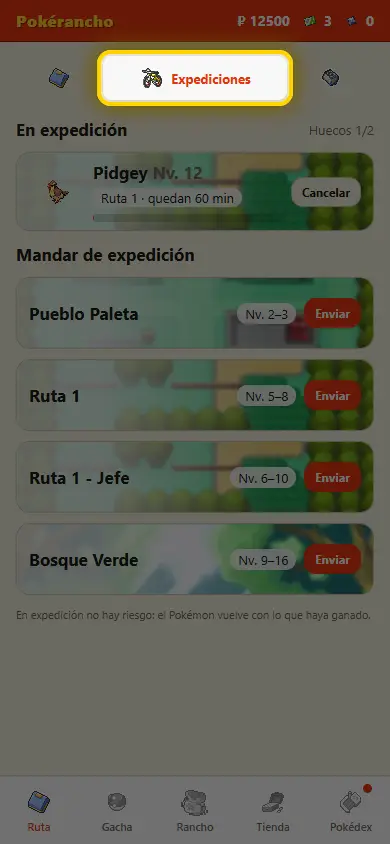
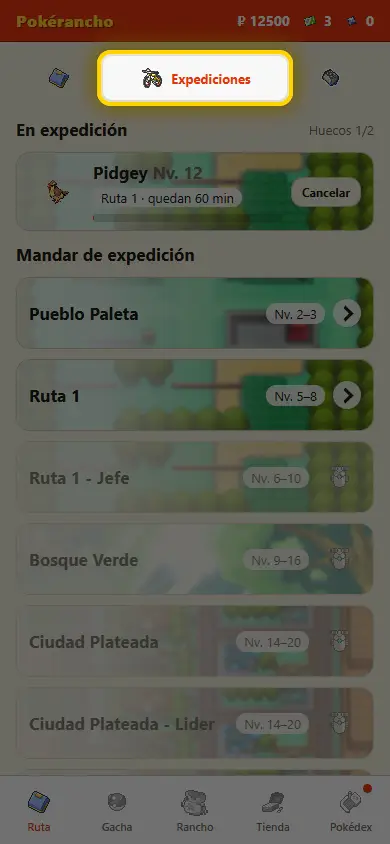
Actualización y nueva ruta

diff --git a/src/data/maps/kantoMaps.ts b/src/data/maps/kantoMaps.ts
@@ -138,12 +138,44 @@ export const KANTO: GameMap = {
       levels: [23, 25],
       encounters: enc([POKEMON.Geodude, 20], [POKEMON.Sandshrew, 15], [POKEMON.Spearow, 15], [POKEMON.Pidgey, 15], [POKEMON.Diglett, 10], [POKEMON.Mankey, 10], [POKEMON.Rattata, 10], [POKEMON.Jigglypuff, 5]),
       reward: { tickets: 5, money: 1000, exp: 1000 },
-      //unlocks: RouteId.MonteMoon,
+      unlocks: RouteId.Ruta3,
       nodes: chain(
         { id: 's', name: 'Afueras de la ciudad', kind: NodeKind.Start, steps: 0 },
         { id: 'a', name: 'Rocket team', kind: NodeKind.Raid, steps: 20, boss: raidBoss(POKEMON.Meowth, 25, RaidTier.Low, { soloMinutes: 10 }) },
         { id: 'b', name: 'Rocket team', kind: NodeKind.Raid, steps: 20, boss: raidBoss(POKEMON.Koffing, 25, RaidTier.Low, { soloMinutes: 10 }) },
         { id: 'c', name: 'Rocket team', kind: NodeKind.Raid, steps: 20, boss: raidBoss(POKEMON.Ekans, 25, RaidTier.Mid, { soloMinutes: 30 }) },
+      ),
+    },
+    {
+      id: RouteId.Ruta3,
+      name: 'Ruta 3',
+      description: 'Camino de rocas y hierba entre Ciudad Plateada y el Monte Moon, lleno de entrenadores.',
+      biome: Biome.Meadow,
+      levels: [22, 28],
+      encounters: enc([POKEMON.Spearow, 30], [POKEMON.Jigglypuff, 15], [POKEMON.Mankey, 15], [POKEMON.Sandshrew, 15], [POKEMON.Ekans, 15], [POKEMON.NidoranF, 5], [POKEMON.NidoranM, 5]),
+      reward: { tickets: 5, money: 1500, exp: 1200 },
+      nodes: chain(
+        { id: 's', name: 'Salida de Ciudad Plateada', kind: NodeKind.Start, steps: 0 },
+        { id: 'a', name: 'Sendero rocoso', kind: NodeKind.Wild, steps: 90, encounters: enc([POKEMON.Spearow, 40], [POKEMON.Sandshrew, 30], [POKEMON.Mankey, 30]) },
+        { id: 'b', name: 'Repecho', kind: NodeKind.Wild, steps: 100 },
+        { id: 'j1', name: 'Pajarero del repecho', kind: NodeKind.Boss, steps: 40, boss: boss(POKEMON.Fearow, 22, [{ type: 'flying', level: 1 }]) },
+        { id: 'p1', name: 'Merendero', kind: NodeKind.Heal, steps: 15, potion: Potion.SuperPotion },
+        { id: 'c', name: 'Pradera de Jigglypuff', kind: NodeKind.Wild, steps: 90, levelBonus: 1, encounters: enc([POKEMON.Jigglypuff, 50], [POKEMON.NidoranF, 15], [POKEMON.NidoranM, 15], [POKEMON.Spearow, 20]) },
+        { id: 'd', name: 'Campo de Nidoran', kind: NodeKind.Wild, steps: 100, levelBonus: 1, encounters: enc([POKEMON.NidoranF, 35], [POKEMON.NidoranM, 35], [POKEMON.Nidorina, 15], [POKEMON.Nidorino, 15]) },
+        { id: 'e', name: 'Cantera', kind: NodeKind.Wild, steps: 90, levelBonus: 1, encounters: enc([POKEMON.Sandshrew, 40], [POKEMON.Geodude, 40], [POKEMON.Mankey, 20]) },
+        { id: 'j2', name: 'Montañero de la cantera', kind: NodeKind.Boss, steps: 40, boss: boss(POKEMON.Sandslash, 23, [{ type: 'ground', level: 1 }]) },
+        { id: 'p2', name: 'Fuente del camino', kind: NodeKind.Heal, steps: 15, potion: Potion.SuperPotion },
+        { id: 'f', name: 'Barranco', kind: NodeKind.Wild, steps: 100, levelBonus: 2, encounters: enc([POKEMON.Ekans, 35], [POKEMON.Sandshrew, 25], [POKEMON.Mankey, 25], [POKEMON.Fearow, 15]) },
+        { id: 'g', name: 'Hierba alta', kind: NodeKind.Wild, steps: 90, levelBonus: 2, encounters: enc([POKEMON.Pikachu, 30], [POKEMON.Jigglypuff, 30], [POKEMON.Spearow, 20], [POKEMON.Ekans, 20]) },
+        { id: 'j3', name: 'Chica de la hierba alta', kind: NodeKind.Boss, steps: 40, boss: boss(POKEMON.Raichu, 24, [{ type: 'electric', level: 1 }]) },
+        { id: 'p3', name: 'Cabaña del cruce', kind: NodeKind.Heal, steps: 15, landmark: StopLandmark.House, potion: Potion.SuperPotion },
+        { id: 'h', name: 'Ladera', kind: NodeKind.Wild, steps: 100, levelBonus: 3, encounters: enc([POKEMON.Primeape, 20], [POKEMON.Fearow, 20], [POKEMON.Sandslash, 20], [POKEMON.Mankey, 20], [POKEMON.Ekans, 20]) },
+        { id: 'i', name: 'Paso de montaña', kind: NodeKind.Wild, steps: 100, levelBonus: 3, encounters: enc([POKEMON.Geodude, 30], [POKEMON.Zubat, 30], [POKEMON.Clefairy, 20], [POKEMON.Primeape, 20]) },
+        { id: 'p4', name: 'Centro Pokémon', kind: NodeKind.Heal, steps: 15, potion: Potion.SuperPotion },
+        { id: 'j4', name: 'Médium del Monte Moon', kind: NodeKind.Boss, steps: 40, boss: boss(POKEMON.Haunter, 25, [{ type: 'ghost', level: 1 }]) },
+        { id: 'p5', name: 'Refugio del montañero', kind: NodeKind.Heal, steps: 15, potion: Potion.SuperPotion },
+        { id: 'j5', name: 'Ladrón de fósiles', kind: NodeKind.Boss, steps: 40, boss: boss(POKEMON.Aerodactyl, 27, [{ type: 'rock', level: 2 }]) },
+        { id: 'z', name: 'Pie del Monte Moon', kind: NodeKind.Raid, steps: 60, boss: raidBoss(POKEMON.Primeape, 30, RaidTier.Mid, { soloMinutes: 25 }) },
       ),
     },
     // {

diff --git a/src/ui/route/RouteRow.tsx b/src/ui/route/RouteRow.tsx
@@ -4,23 +4,61 @@ import { ICON } from '../shared/icons'
 import { ItemIcon } from '../shared/ItemIcon'
 import './route.css'
 
+interface BackdropRowProps {
+  image?: string
+  /** Qué franja de la imagen se ve, en % de su alto */
+  focusY?: number
+  className?: string
+  /** Con `onClick`, la tarjeta entera es el botón (con una flecha a la derecha) */
+  onClick?: () => void
+  disabled?: boolean
+  children: ReactNode
+}
+
 /**
- * Tarjeta de una línea sobre una imagen difuminada (`focusY`: qué franja se ve, en % de su alto): base de las listas
- * de rutas, de expediciones y de la sala de un jefe
+ * Tarjeta de una línea sobre una imagen difuminada: base de las listas de rutas, de expediciones y de la sala de un
+ * jefe. Si se puede tocar, es un botón entero en vez de llevar uno dentro, para que el texto tenga todo el ancho
  */
-export function BackdropRow({ image, focusY = 50, className = '', children }: { image?: string; focusY?: number; className?: string; children: ReactNode }) {
+export function BackdropRow({ image, focusY = 50, className = '', onClick, disabled = false, children }: BackdropRowProps) {
+  const backdrop = image && (
+    <span className="route-backdrop" style={{ backgroundImage: `url(${image})`, backgroundPositionY: `${focusY}%` }} aria-hidden="true" />
+  )
+  if (!onClick) {
+    return (
+      <div className={`card route-row ${className}`}>
+        {backdrop}
+        {children}
+      </div>
+    )
+  }
   return (
-    <div className={`card route-row ${className}`}>
-      {image && <span className="route-backdrop" style={{ backgroundImage: `url(${image})`, backgroundPositionY: `${focusY}%` }} aria-hidden="true" />}
+    <button type="button" className={`card route-row tappable ${className}`} disabled={disabled} onClick={onClick}>
+      {backdrop}
       {children}
-    </div>
+      <span className="route-go" aria-hidden="true" />
+    </button>
   )
 }
 
-/** Línea sobre la imagen de la zona de la ruta */
-export function RouteRow({ route: r, locked = false, children }: { route: Route; locked?: boolean; children: ReactNode }) {
+interface RouteRowProps {
+  route: Route
+  locked?: boolean
+  className?: string
+  onClick?: () => void
+  disabled?: boolean
+  children: ReactNode
+}
+
+/** Línea sobre la imagen de la zona de la ruta; bloqueada se ve apagada y no se puede tocar */
+export function RouteRow({ route: r, locked = false, className = '', onClick, disabled, children }: RouteRowProps) {
   return (
-    <BackdropRow image={r.backdrop?.image} focusY={r.backdrop?.focusY} className={locked ? 'locked' : ''}>
+    <BackdropRow
+      image={r.backdrop?.image}
+      focusY={r.backdrop?.focusY}
+      className={`${locked ? 'locked' : ''} ${className}`}
+      onClick={locked ? undefined : onClick}
+      disabled={disabled}
+    >
       {children}
     </BackdropRow>
   )
@@ -38,10 +76,10 @@ export function RouteRowTitle({ route: r }: { route: Route }) {
   )
 }
 
-/** Candado de una ruta aún bloqueada */
-export function RouteLock() {
+/** Candado de una ruta en la que aún no se puede entrar; `reason`, por qué */
+export function RouteLock({ reason = 'Completa la ruta anterior' }: { reason?: string }) {
   return (
-    <span className="route-lock" aria-label="Bloqueada: completa la ruta anterior" title="Completa la ruta anterior">
+    <span className="route-lock" aria-label={`Bloqueada: ${reason}`} title={reason}>
       <ItemIcon item={ICON.Locked} size={32} />
     </span>
   )

diff --git a/src/ui/route/RouteMap.tsx b/src/ui/route/RouteMap.tsx
@@ -7,8 +7,8 @@ import { RouteLock, RouteRow, RouteRowTitle } from './RouteRow'
 import { RouteStartDialog } from './RouteStartDialog'
 
 /**
- * Lista de rutas, una por línea: nombre, niveles, si está completada y «Comenzar» (o un candado si sigue bloqueada),
- * sobre la imagen de su zona difuminada.
+ * Lista de rutas, una por línea: nombre, niveles y si está completada, sobre la imagen de su zona difuminada. Toda la
+ * línea es el botón de comenzarla (con un candado si sigue bloqueada).
  */
 export function RouteMap({ game }: { game: GameState }) {
   const [starting, setStarting] = useState<Route | null>(null)
@@ -27,22 +27,22 @@ export function RouteMap({ game }: { game: GameState }) {
           const guided = game.tutorial === TutorialStep.Route && unlocked && !starting
           return (
             <Fragment key={r.id}>
-              {/* El bocadillo señala hacia abajo: va encima de la línea, apuntando a «Comenzar» */}
-              {guided && <TutorialHint arrowX="88%">Toca «Comenzar» para salir a tu primera ruta.</TutorialHint>}
-              <RouteRow route={r} locked={!unlocked}>
+              {/* El bocadillo señala hacia abajo: va encima de la línea, apuntando a ella */}
+              {guided && <TutorialHint arrowX="50%">Toca la ruta para salir por primera vez.</TutorialHint>}
+              <RouteRow
+                route={r}
+                locked={!unlocked}
+                className={guided ? 'tutorial-target' : ''}
+                disabled={!!blocker}
+                onClick={() => setStarting(r)}
+              >
                 <RouteRowTitle route={r} />
                 {done && (
                   <span className="route-done" title="Completada" aria-label="Completada">
                     ✓
                   </span>
                 )}
-                {unlocked ? (
-                  <button className={`btn primary small ${guided ? 'tutorial-target' : ''}`} disabled={!!blocker} onClick={() => setStarting(r)}>
-                    Comenzar
-                  </button>
-                ) : (
-                  <RouteLock />
-                )}
+                {!unlocked && <RouteLock />}
               </RouteRow>
             </Fragment>
           )

diff --git a/src/ui/expeditions/ExpeditionScreen.tsx b/src/ui/expeditions/ExpeditionScreen.tsx
@@ -1,7 +1,7 @@
 import { useState } from 'react'
 import { KANTO, type Route } from '../../data/maps'
 import { MonPlace, monPlace, type GameState } from '../../game/core/state'
-import { expeditionSlots, expeditionsBlocker } from '../../game/team/expedition'
+import { expeditionRouteBlocker, expeditionSlots, expeditionsBlocker } from '../../game/team/expedition'
 import { RouteLock, RouteRow, RouteRowTitle } from '../route/RouteRow'
 import { ExpeditionList } from './ExpeditionList'
 import { ExpeditionStartDialog } from './ExpeditionStartDialog'
@@ -28,22 +28,18 @@ export function ExpeditionScreen({ game }: { game: GameState }) {
       {blocker && <p className="notice">{blocker}</p>}
       <div className="route-list">
         {KANTO.routes.map((r) => {
-          const unlocked = game.unlockedRoutes.includes(r.id)
+          const routeBlocker = expeditionRouteBlocker(game, r.id)
           return (
-            <RouteRow key={r.id} route={r} locked={!unlocked}>
+            <RouteRow key={r.id} route={r} locked={!!routeBlocker} disabled={!!blocker} onClick={() => setSending(r)}>
               <RouteRowTitle route={r} />
-              {unlocked ? (
-                <button className="btn primary small" disabled={!!blocker} onClick={() => setSending(r)}>
-                  Enviar
-                </button>
-              ) : (
-                <RouteLock />
-              )}
+              {routeBlocker && <RouteLock reason={routeBlocker} />}
             </RouteRow>
           )
         })}
       </div>
-      <p className="tiny muted">En expedición no hay riesgo: el Pokémon vuelve con lo que haya ganado.</p>
+      <p className="tiny muted">
+        Solo se puede mandar a las rutas ya completadas. En expedición no hay riesgo: el Pokémon vuelve con lo que haya ganado.
+      </p>
       {sending && home.length > 0 && <ExpeditionStartDialog game={game} route={sending} mons={home} onClose={() => setSending(null)} />}
     </div>
   )

diff --git a/src/game/team/expedition.test.ts b/src/game/team/expedition.test.ts
@@ -13,6 +13,7 @@ import {
   expeditionBlocker,
   expeditionsBlocker,
   expeditionRewardMult,
+  expeditionRouteBlocker,
   expeditionWinRate,
   isExpeditionDone,
   scaleCount,
@@ -30,6 +31,7 @@ function stateOnExpedition(durationMin = DURATION) {
   const s = initialState()
   chooseStarter(s, POKEMON.Bulbasaur)
   const mon = activeMon(s)!
+  s.completedRoutes.push(RouteId.PuebloPaleta)
   sendExpedition(s, mon.uid, RouteId.PuebloPaleta, durationMin)
   return { s, mon }
 }
@@ -38,6 +40,20 @@ describe('expediciones', () => {
   it('no se puede salir de ruta con el Pokémon que está de expedición', () => {
     const { s } = stateOnExpedition()
     expect(runBlocker(s)).toMatch(/expedición/)
+  })
+
+  it('solo se puede mandar a una ruta ya completada', () => {
+    const s = initialState()
+    chooseStarter(s, POKEMON.Bulbasaur)
+    const mon = activeMon(s)!
+    s.unlockedRoutes.push(RouteId.PuebloPaleta)
+    expect(expeditionRouteBlocker(s, RouteId.PuebloPaleta)).not.toBeNull()
+    sendExpedition(s, mon.uid, RouteId.PuebloPaleta, DURATION)
+    expect(s.expeditions).toHaveLength(0)
+    s.completedRoutes.push(RouteId.PuebloPaleta)
+    expect(expeditionRouteBlocker(s, RouteId.PuebloPaleta)).toBeNull()
+    sendExpedition(s, mon.uid, RouteId.PuebloPaleta, DURATION)
+    expect(s.expeditions).toHaveLength(1)
   })
 
   it('solo acepta las duraciones previstas', () => {

diff --git a/src/ui/route/route.css b/src/ui/route/route.css
@@ -50,6 +50,47 @@
 .route-row.locked {
   opacity: 0.55;
 }
+/* La tarjeta entera es el botón: sin estilo de botón, se hunde un poco al tocarla y lleva una flecha a la derecha */
+.route-row.tappable {
+  width: 100%;
+  font: inherit;
+  color: inherit;
+  cursor: pointer;
+  transition:
+    scale 0.12s ease,
+    box-shadow 0.12s ease;
+}
+.route-row.tappable:active:not(:disabled) {
+  scale: 0.98;
+}
+.route-row.tappable:focus-visible {
+  outline: 3px solid var(--accent);
+  outline-offset: 2px;
+}
+.route-row.tappable:disabled {
+  cursor: default;
+  opacity: 0.7;
+}
+/* Flecha en un círculo claro, para que se vea sobre cualquier imagen */
+.route-go {
+  display: grid;
+  place-items: center;
+  flex-shrink: 0;
+  width: 28px;
+  height: 28px;
+  border-radius: 50%;
+  background: color-mix(in srgb, var(--card) 85%, transparent);
+  box-shadow: 0 1px 0 #0002;
+}
+.route-go::before {
+  content: '';
+  width: 8px;
+  height: 8px;
+  margin-left: -3px;
+  border-top: 3px solid var(--text);
+  border-right: 3px solid var(--text);
+  rotate: 45deg;
+}
 /* Completada: insignia redonda verde */
 .route-done {
   display: grid;

diff --git a/src/ui/tutorials/guides/playGuide.ts b/src/ui/tutorials/guides/playGuide.ts
@@ -21,7 +21,7 @@ export const PLAY_GUIDE: Guide = {
     {
       image: shot('play-routes'),
       title: 'Elige una ruta',
-      text: 'En la pestaña Ruta está el mapa. Cada línea dice el nivel de sus Pokémon y la ✓ marca las que ya completaste. Toca «Comenzar» en la que quieras.',
+      text: 'En la pestaña Ruta está el mapa. Cada línea dice el nivel de sus Pokémon y la ✓ marca las que ya completaste. Toca la que quieras para salir a ella.',
     },
     {
       image: shot('play-start'),
@@ -36,7 +36,7 @@ export const PLAY_GUIDE: Guide = {
     {
       image: shot('play-expeditions'),
       title: 'Manda al resto de expedición',
-      text: 'Arriba, el icono de la bicicleta abre Expediciones: elige una ruta, quién va y cuánto tiempo. Vuelven con EXP, dinero, tickets y a veces Pokémon nuevos, sin riesgo.',
+      text: 'Arriba, el icono de la bicicleta abre Expediciones: elige una ruta que ya hayas completado, quién va y cuánto tiempo. Vuelven con EXP, dinero, tickets y a veces Pokémon nuevos, sin riesgo.',
     },
     {
       image: shot('play-gacha'),

diff --git a/src/game/team/expedition.ts b/src/game/team/expedition.ts
@@ -59,8 +59,13 @@ export function expeditionBlocker(s: GameState, uid: string): string | null {
   return null
 }
 
+/** Por qué no se puede mandar a nadie a esa ruta (solo a las ya completadas), o null si se puede */
+export function expeditionRouteBlocker(s: GameState, routeId: string): string | null {
+  return s.completedRoutes.includes(routeId) ? null : 'Complétala primero para mandar expediciones a ella.'
+}
+
 export function sendExpedition(s: GameState, uid: string, routeId: string, durationMin: number) {
-  if (expeditionBlocker(s, uid) || !s.unlockedRoutes.includes(routeId)) return
+  if (expeditionBlocker(s, uid) || expeditionRouteBlocker(s, routeId)) return
   if (!EXPEDITION_DURATIONS.includes(durationMin)) return
   s.expeditions.push({ uid, routeId, durationMin, elapsedMin: 0 })
 }

diff --git a/src/game/core/pushPlan.test.ts b/src/game/core/pushPlan.test.ts
@@ -18,6 +18,7 @@ function withExpedition() {
   chooseStarter(s, STARTERS[0])
   const mon = createMon(STARTERS[1], s.owned[0].level, 0)
   s.owned.push(mon)
+  s.completedRoutes.push(RouteId.PuebloPaleta)
   sendExpedition(s, mon.uid, RouteId.PuebloPaleta, EXPEDITION_DURATIONS[0])
   return { s, mon }
 }

diff --git a/src/game/team/ranch.test.ts b/src/game/team/ranch.test.ts
@@ -40,6 +40,7 @@ describe('rancho', () => {
     const s = stateWithStarter()
     const mon = activeMon(s)!
     mon.hp = 5
+    s.completedRoutes.push(RouteId.PuebloPaleta)
     sendExpedition(s, mon.uid, RouteId.PuebloPaleta, EXPEDITION_DURATIONS[0])
     restInRanch(s, 60)
     expect(mon.hp).toBe(5)

diff --git a/src/data/maps/mapCommon.ts b/src/data/maps/mapCommon.ts
@@ -29,6 +29,7 @@ export const RouteId = {
   CiudadPlateada: 'ciudad-plateada',
   CiudadPlateada2: 'ciudad-plateada2',
   CiudadPlateada3: 'ciudad-plateada3',
+  Ruta3: 'ruta-3',
   MonteMoon: 'monte-moon',
   RutaMarina: 'ruta-marina',
 } as const

diff --git a/docs/diseno.md b/docs/diseno.md
@@ -42,7 +42,7 @@ cupón) y los tickets que se gastan en el gacha, «tickets de gacha». En el có
    dinero). Repetir una ruta ya completada solo da lo de sus combates (y no vuelve a anunciar la ruta que desbloquea).
    Cada jefe comunitario derrotado en la ruta cuenta como un combate ganado.
 5. **Expediciones** (pestaña Ruta › Expediciones): el resto del equipo hace rutas por tiempo y vuelve con EXP,
-   dinero, tickets, piezas y, a veces, Pokémon descubiertos; cuanto más larga, más rinde. Ahí se ve quién está fuera, se recoge a los que han vuelto y se envía a cualquiera del rancho. Una expedición en curso se puede cancelar (con confirmación): el Pokémon vuelve al rancho y no gana nada.
+   dinero, tickets, piezas y, a veces, Pokémon descubiertos; cuanto más larga, más rinde. Ahí se ve quién está fuera, se recoge a los que han vuelto y se envía a cualquiera del rancho, solo a rutas ya completadas (`expeditionRouteBlocker`). Una expedición en curso se puede cancelar (con confirmación): el Pokémon vuelve al rancho y no gana nada.
    Se puede usar también con la ruta del activo en marcha.
    Opcionalmente avisa con una notificación push al volver, aunque la app esté cerrada (Ajustes › Notificaciones; antes, con la app en
    segundo plano, no cerrada).
@@ -129,7 +129,7 @@ At. Esp. La defensa es la media de ambas defensas.
 | Combate en ruta | Cada evento dura según su tipo (ataque corto, golpe algo más) + 1,2 s final, en tiempo real (no le afecta `timeScale`); sin pasos mientras dura | `battleTimeline.ts › BATTLE_EVENT_MS, BATTLE_END_MS` |
 | Jefes | Parada `boss`: siempre el mismo Pokémon a nivel fijo, con stats completas (sin el ×0.7). Da ₽ ×3, EXP ×2 y los tickets de `BOSS_TICKETS` (ahora 0) en vez de la probabilidad de un salvaje; se ve más grande, con «JEFE» y un aviso al aparecer | `mapCommon.ts › boss()`, `runBattle.ts › BOSS_MONEY_MULT, BOSS_EXP_MULT, BOSS_TICKETS` |
 | Derrota | Fin de la ruta y pérdida del 50% del dinero ganado en ella | `runBattle.ts › DEFEAT_MONEY_LOSS` |
-| Expediciones | 15 min, 1 h, 4 h u 8 h; 8 combates/h; victoria con probabilidad `nivel / nivel medio de la ruta` (mín. 20%). Sin derrota. Se puede cancelar antes de que vuelva, sin ningún premio (`cancelExpedition`). La EXP sale de las victorias (misma regla que en ruta). EXP, ₽, tickets y piezas de cada victoria ×1 / ×2,5 / ×3 / ×3 según la duración (con decimales, cada ticket o pieza suelta saca 2 o 3 al azar, de media 2,5; EXP y ₽ se redondean). Cada combate puede descubrir una especie no vista: 15 / 10 / 7,5 / 5% (común / raro / épico / legendario). 1 Pokémon a la vez (+1 por mejora) | `expedition.ts › EXPEDITION_DURATIONS, DURATION_REWARD_MULT, scaleCount, DISCOVERY_CHANCE, BASE_EXPEDITION_SLOTS` |
+| Expediciones | Solo a rutas completadas. 15 min, 1 h, 4 h u 8 h; 8 combates/h; victoria con probabilidad `nivel / nivel medio de la ruta` (mín. 20%). Sin derrota. Se puede cancelar antes de que vuelva, sin ningún premio (`cancelExpedition`). La EXP sale de las victorias (misma regla que en ruta). EXP, ₽, tickets y piezas de cada victoria ×1 / ×2,5 / ×3 / ×3 según la duración (con decimales, cada ticket o pieza suelta saca 2 o 3 al azar, de media 2,5; EXP y ₽ se redondean). Cada combate puede descubrir una especie no vista: 15 / 10 / 7,5 / 5% (común / raro / épico / legendario). 1 Pokémon a la vez (+1 por mejora) | `expedition.ts › EXPEDITION_DURATIONS, DURATION_REWARD_MULT, scaleCount, DISCOVERY_CHANCE, BASE_EXPEDITION_SLOTS` |
 | Jefes comunitarios | Jefes en orden de la lista (`RAID_BOSSES`), con su Ataque ×0.35 (y nunca quita más del 40% de los PS máximos de un golpe) y una vida tal que un Pokémon neutral de su nivel tardaría ≈3 h solo (o los minutos que diga el jefe en `soloMinutes`: el de la Ruta 1, 10 min) (con tipos a favor o en contra, de 30 min a 6 h; con 2–5 bots, 30–75 min). Rondas de 4 s de juego: cada uno en pie pega al jefe con la fórmula de siempre (tipos, STAB, pasivas de su rancho) y el jefe pega a uno al azar. Debilitado, vuelve a los 30 s con todos sus PS. EXP: `nivel del jefe × 1` por minuto en pie. Sala de 10; 1 Pokémon del jugador. Un jefe puede pedir un nivel mínimo para entrar (`minLevel`; Snorlax, Nv. 10). Bots: 2–5 (entra uno más cada ≈17 min de media, al azar, pero nunca pasan más de 10 min sin que entre uno mientras haya hueco); la sala empieza vacía con cada jefe y los 2 mínimos entran al aparecer; se quedan 15–90 min, llegan 0–6 niveles por debajo del jefe, especies comunes o raras. Cobra quien estuvo ≥10% de la pelea o sigue dentro al caer; premio igual para todos: cada jefe lleva una categoría (`tier`: baja, media o alta) que elige su tabla de premios, y cada línea de la tabla se tira por separado. Las tablas dan ₽, tickets, tickets del jefe y EXP (`RaidPrizeKind.Exp`) para el Pokémon que luchó, aparte de la que gana por minuto (baja: 100 siempre + 200 al 30%; media: 250 + 400 al 25%; alta: 800 + 1500 al 30%). En las paradas de ruta, la EXP se rebaja como el dinero al repetir seguido. En las paradas de ruta se escribe con `raidBoss(especie, nivel, RaidTier.X, { soloMinutes })`. Tiempo estimado: se simulan 60 rondas con los que hay ahora en la sala (sin que entre ni salga nadie) y se divide la vida que queda entre su daño medio. Paradas de ruta (`NodeKind.Raid`): sin mínimo de bots, el primero entra a los 5 s y luego van llegando (uno cada ≈40 s de media) hasta llenar la sala; al llegar, 50% de encontrar una sala en marcha; se entra en una sala con hueco si al jefe le queda más del 25%; si la app estaba cerrada al llegar (nadie pudo buscar sala en el servidor durante más de 10 s), la pelea se juega en local con bots y la ruta sigue al caer el jefe; 10 vidas para el Pokémon del jugador (al gastarlas, vuelta al inicio de la ruta y reenganche a una sala con el jefe a la vida más cercana a la que dejó). Derrotar seguido al jefe de la misma parada rebaja su dinero ×0,5 cada vez (100%, 50%, 25%…, mín. 10%); si pasan 5 min reales sin derrotarlo, vuelve a darlo entero. Se avisa al salir y en el resumen | `data/raidBosses.ts › RAID_BOSSES (con minLevel y tier), RaidTier, RAID_PRIZE_TABLES`, `raidEngine.ts › RAID_SOLO_MINUTES` (o `soloMinutes` del jefe, en su mapa o en `RAID_BOSSES`), `raidEngine.ts › RAID_EXP_PER_MINUTE_PER_LEVEL`, `raid.ts › RAID_PLAYER_SLOTS, RAID_COOLDOWN_MS`, `stopRoom.ts › ROUTE_RAID_BOTS, ROUTE_RAID_FIRST_BOT_MS, ROUTE_RAID_JOIN_MIN_HP`, `routeRaid.ts › ROUTE_RAID_RUNNING_CHANCE, ROUTE_RAID_LIVES, ROUTE_RAID_SEARCH_MS`, `routeRaidStreak.ts › ROUTE_RAID_STREAK_RESET_MS, ROUTE_RAID_REPEAT_MONEY_MULT, ROUTE_RAID_MIN_MONEY_MULT`, `raidCombat.ts › RAID_ROUND_MS, RAID_REVIVE_MS, RAID_BOSS_ATK_MULT, RAID_BOSS_MAX_HIT`, `raidEstimate.ts › ESTIMATE_ROUNDS`, `raidRoom.ts › RAID_ROOM_SIZE`, `raidBots.ts › RAID_BOTS (con maxGapMinutes)`, `raidPrizes.ts › RAID_MIN_PRESENCE` |
 | Final de la pelea de grupo | Cuando cae el jefe (o el Pokémon de la ruta gasta sus vidas) la sala no se cierra en el acto: se ve entera la última ronda (4 s), el jefe cae con el último golpe y queda el cartel del final 3 s; solo entonces se reparten los premios o se sigue la ruta. Mientras, no se puede retirar y no se aplican más respuestas del servidor para esa sala | `raidEnding.ts › RAID_FINALE_MS, RAID_ENDING_MS` |
 | Salas compartidas (servidor) | Las salas las juega el servidor con las mismas reglas y bots, en tiempo real (x1). Al entrar: la sala en la que ya estuvo el jugador o la que tenga más jugadores; si está llena, sale un bot. Sala de 10, un Pokémon por jugador. Con la app cerrada se pone al día como mucho 12 h de golpe; una sala sin consultas en 24 h se borra. Consultas: cada 5 s con la pelea en pantalla, cada 60 s con la app abierta en otra pestaña, ninguna con la app cerrada o en segundo plano. Apodo de hasta 14 letras | `online/sharedRoom.ts › ROOM_MAX_CATCHUP_MS`, `online/roomServer.ts › ROOM_TTL_MS`, `net/raidSync.ts › WATCH_SYNC_MS, BACKGROUND_SYNC_MS`, `online/protocol.ts › NICKNAME_MAX` |
@@ -174,11 +174,16 @@ El premio final de cada ruta (`reward` en `kantoMaps.ts`) solo se da la primera 
   Plateada (Nv. 14–20, 6 combates salvajes de roca, tierra y fósiles, dos curas con Superpoción y el líder del gimnasio,
   Onix Nv. 16, como jefe). Simulada a x1: ≈20 min; Bulbasaur y Squirtle la terminan el 70% de las veces a Nv. 16 y
   casi siempre a Nv. 18, y Charmander solo no la termina a ningún nivel (los tipos roca y tierra le hacen el doble y
-  resisten su fuego). Monte Moon y Ruta Marina están comentadas en `src/data/maps/kantoMaps.ts`; al reactivarlas hay
-  que devolver `unlocks` a la ruta anterior.
+  resisten su fuego). Tras el gimnasio, Ciudad Plateada - Líder (Onix) y - Rocket (Meowth, Koffing y Ekans), y la
+  Ruta 3 (Nv. 22–28, pensada para ser dura: 23 paradas, ≈40–45 min a x1; 9 combates salvajes, 5 curas con Superpoción y
+  5 jefes con pasivas, cada uno contra un inicial: Fearow Nv. 16 (Ivysaur), Sandslash Nv. 17 (Charmeleon), Raichu Nv. 14
+  (Wartortle), Haunter Nv. 18 con la pasiva fantasma (Ivysaur) y, para los tres, Aerodactyl Nv. 17 con la pasiva de roca de nivel 2; al final, el jefe
+  comunitario Primeape Nv. 28). Simulada sin pasivas de rancho, la terminan Ivysaur / Charmeleon / Wartortle el
+  14 / 6 / 18% a Nv. 28 y el 71 / 32 / 45% a Nv. 30; sin evolucionar, no pasan del primer jefe. Monte Moon y Ruta Marina
+  están comentadas en `src/data/maps/kantoMaps.ts`; al reactivarlas hay que dar a la Ruta 3 su `unlocks`.
 - Los 151 Pokémon de 1ª generación, de PokeAPI, en `src/data/pokemon.json` (se regenera con
   `scripts/fetch-pokemon.mjs`; los Pokémon de fuera de Kanto se añaden en su `NATIONAL_IDS`).
-- Existen nodos `start`, `wild`, `boss` (el final de Pueblo Paleta) y `raid` (jefe comunitario: Pidgeotto Nv. 12 al final de la Ruta 1).
+- Existen nodos `start`, `wild`, `boss` (el final de Pueblo Paleta, el de la Ruta 1 y los cinco de la Ruta 3) y `raid` (jefe comunitario: Pidgeotto Nv. 12 al final de la Ruta 1).
 
 ## Ideas previstas (no implementadas)
 
